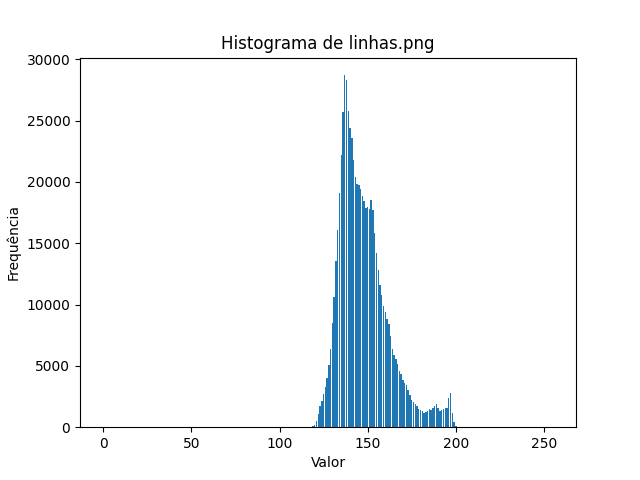
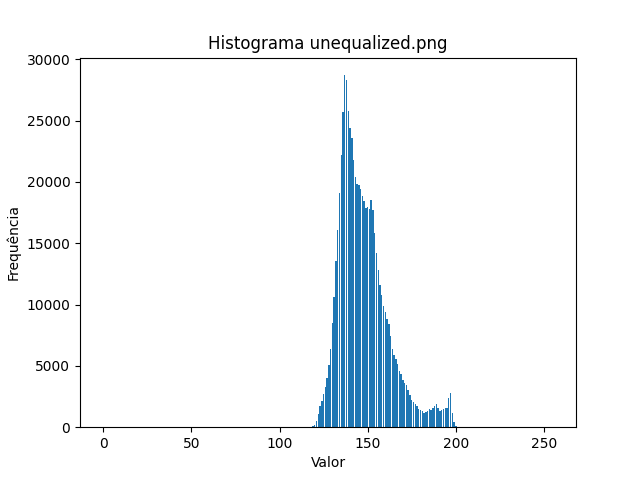
Fim do trabalho

Changed region(s): [[0.3125, 0.0625, 0.7188, 0.125]]

diff --git a/utils/medidas_objetos.py b/utils/medidas_objetos.py
@@ -1,36 +1,75 @@
 import numpy as np
 import cv2
 import matplotlib.pyplot as plt
+from utils import filtros
 
 def calcular_area(rotulada, rotulo):
     return np.sum(rotulada == rotulo)
 
+def encontrar_contornos(imagem_bordas):
+    altura, largura = imagem_bordas.shape
+    visitado = np.zeros_like(imagem_bordas, dtype=bool)
+    contornos = []
+
+    for i in range(altura):
+        for j in range(largura):
+            if imagem_bordas[i, j] == 255 and not visitado[i, j]:
+                pilha = [(i, j)]
+                contorno = []
+
+                while pilha:
+                    y, x = pilha.pop()
+                    if 0 <= y < altura and 0 <= x < largura:
+                        if imagem_bordas[y, x] == 255 and not visitado[y, x]:
+                            visitado[y, x] = True
+                            contorno.append((x, y))
+
+                            for dy in [-1, 0, 1]:
+                                for dx in [-1, 0, 1]:
+                                    if dx != 0 or dy != 0:
+                                        pilha.append((y + dy, x + dx))
+
+                if len(contorno) > 0:
+                    contornos.append(contorno)
+
+    return contornos
+
 def calcular_perimetro(rotulada, rotulo):
     objeto = np.uint8(rotulada == rotulo) * 255
-    contornos, _ = cv2.findContours(objeto, cv2.RETR_EXTERNAL, cv2.CHAIN_APPROX_SIMPLE)
+    contornos = cv2.findContours(objeto, cv2.RETR_EXTERNAL, cv2.CHAIN_APPROX_SIMPLE)
     if contornos:
-        return cv2.arcLength(contornos[0], True)
+        contorno = contornos[0]
+        perimetro = 0
+        for i in range(len(contorno) - 1):
+            x1, y1 = contorno[i]
+            x2, y2 = contorno[i + 1]
+            perimetro += np.sqrt((x2 - x1)**2 + (y2 - y1)**2)
+        return perimetro
     return 0
 
 def calcular_diametro(rotulada, rotulo):
     objeto = np.uint8(rotulada == rotulo) * 255
-    contornos, _ = cv2.findContours(objeto, cv2.RETR_EXTERNAL, cv2.CHAIN_APPROX_SIMPLE)
+    contornos = cv2.findContours(objeto, cv2.RETR_EXTERNAL, cv2.CHAIN_APPROX_SIMPLE)
     if contornos:
-        pontos = contornos[0][:, 0, :]
+        pontos = contornos[0]
         max_dist = 0
         for i in range(len(pontos)):
             for j in range(i + 1, len(pontos)):
-                dist = np.linalg.norm(pontos[i] - pontos[j])
+                dist = np.linalg.norm(np.array(pontos[i]) - np.array(pontos[j]))
                 if dist > max_dist:
                     max_dist = dist
         return max_dist
     return 0
+
 
 def medidas_por_objeto(rotulada):
     rotulos = np.unique(rotulada)
     rotulos = rotulos[rotulos != 0]
     medidas = []
     for r in rotulos:
+        #objeto = np.uint8(rotulada == r) * 255
+        #bordas = filtros.canny(objeto)
+        #contornos = encontrar_contornos(bordas)
         area = calcular_area(rotulada, r)
         perimetro = calcular_perimetro(rotulada, r)
         diametro = calcular_diametro(rotulada, r)

diff --git a/utils/filtros.py b/utils/filtros.py
@@ -26,25 +26,39 @@ def mediana(imagem, tamanho=3):
     return resultado.astype(np.uint8)
 
 def canny(imagem, limiar=100):
-    # Passo 1: filtro Gaussiano simples (suavização leve)
-    suavizada = media(imagem, tamanho=3)
+    # Passo 1: Suavização com filtro da média
+    suavizada = media(imagem)
+    suavizada = suavizada.astype(np.int32)
 
-    # Passo 2: gradientes com Sobel
-    sobelx = np.array([[-1, 0, 1],
-                       [-2, 0, 2],
-                       [-1, 0, 1]])
+    # Passo 2: Cálculo de gradientes com Sobel (manualmente)
+    altura, largura = suavizada.shape
+    grad_x = np.zeros_like(suavizada, dtype=np.float32)
+    grad_y = np.zeros_like(suavizada, dtype=np.float32)
 
-    sobely = np.array([[-1, -2, -1],
-                       [ 0,  0,  0],
-                       [ 1,  2,  1]])
+    sobel_x = [[-1, 0, 1],
+               [-2, 0, 2],
+               [-1, 0, 1]]
 
-    grad_x = cv2.filter2D(suavizada, -1, sobelx)
-    grad_y = cv2.filter2D(suavizada, -1, sobely)
+    sobel_y = [[-1, -2, -1],
+               [ 0,  0,  0],
+               [ 1,  2,  1]]
 
-    # Magnitude do gradiente
-    magnitude = np.sqrt(grad_x.astype(np.float32)**2 + grad_y.astype(np.float32)**2)
-    magnitude = np.clip(magnitude, 0, 255).astype(np.uint8)
+    for i in range(1, altura - 1):
+        for j in range(1, largura - 1):
+            gx = 0
+            gy = 0
+            for m in range(-1, 2):
+                for n in range(-1, 2):
+                    valor = suavizada[i + m, j + n]
+                    gx += valor * sobel_x[m + 1][n + 1]
+                    gy += valor * sobel_y[m + 1][n + 1]
+            grad_x[i, j] = gx
+            grad_y[i, j] = gy
 
-    # Limiarização simples para realçar bordas fortes
-    _, binarizada = cv2.threshold(magnitude, limiar, 255, cv2.THRESH_BINARY)
-    return binarizada
+    # Passo 3: Magnitude do gradiente
+    magnitude = np.sqrt(grad_x**2 + grad_y**2)
+
+    # Passo 4: Limiarização (binarização)
+    bordas = np.where(magnitude >= limiar, 255, 0).astype(np.uint8)
+
+    return bordas

diff --git a/utils/segmentacao.py b/utils/segmentacao.py
@@ -4,29 +4,29 @@ def otsu_binarizacao(imagem):
     hist, _ = np.histogram(imagem.flatten(), bins=256, range=(0, 256))
     total = imagem.size
 
-    soma_total = np.dot(np.arange(256), hist)
-    soma_b = 0
-    peso_b = 0
+    soma_total_intensidades = np.dot(np.arange(256), hist)
+    soma_fundo = 0
+    peso_objeto = 0
     max_var = 0
     limiar_otimo = 0
 
     for t in range(256):
-        peso_b += hist[t]
-        if peso_b == 0:
+        peso_objeto += hist[t]
+        if peso_objeto == 0:
             continue
 
-        peso_f = total - peso_b
+        peso_f = total - peso_objeto
         if peso_f == 0:
             break
 
-        soma_b += t * hist[t]
-        media_b = soma_b / peso_b
-        media_f = (soma_total - soma_b) / peso_f
+        soma_fundo += t * hist[t]
+        media_fundo = soma_fundo / peso_objeto
+        media_objeto = (soma_total_intensidades - soma_fundo) / peso_f
 
-        var_entre = peso_b * peso_f * (media_b - media_f) ** 2
+        variancia_entre_classes = peso_objeto * peso_f * (media_fundo - media_objeto) ** 2
 
-        if var_entre > max_var:
-            max_var = var_entre
+        if variancia_entre_classes > max_var:
+            max_var = variancia_entre_classes
             limiar_otimo = t
 
     binaria = np.where(imagem > limiar_otimo, 255, 0).astype(np.uint8)
@@ -40,7 +40,6 @@ def crescimento_regiao(imagem_binaria):
     for i in range(altura):
         for j in range(largura):
             if imagem_binaria[i, j] == 255 and rotulada[i, j] == 0:
-                # Inicia crescimento de região
                 fila = [(i, j)]
                 rotulada[i, j] = rotulo
 

diff --git a/main.py b/main.py
@@ -9,7 +9,7 @@ def menu():
     img4 = cv2.imread('ruidos.png')
     img5 = cv2.imread('unequalized.jpg')
 
-    if img1 is None or img2 is None:
+    if img1 is None or img2 is None or img3 is None or img4 is None or img5 is None:
         print("Erro ao carregar imagens")
         return
 
@@ -109,7 +109,7 @@ def menu():
             histograma = medidas_objetos.histograma(cinza)
             print("\n--- Medidas dos Objetos ---")
 
-            medidas_objetos.plot_histogram(histograma, "Histograma de linhas.png", "histograma_unequalized")
+            medidas_objetos.plot_histogram(histograma, "Histograma unequalized.png", "histograma_unequalized")
 
             for m in medidas:
                 print(f"Objeto {m['rotulo']}: Área={m['area']}, Perímetro={m['perimetro']:.2f}, Diâmetro={m['diametro']:.2f}")

diff --git a/utils/rastreamento_video.py b/utils/rastreamento_video.py
@@ -1,5 +1,5 @@
 import cv2
-
+from utils import filtros
 def rastrear_video():
     cap = cv2.VideoCapture(0)
     if not cap.isOpened():
@@ -50,11 +50,11 @@ def rastrear_video():
 
         elif modo_filtro == 4:
             cinza = cv2.cvtColor(output, cv2.COLOR_BGR2GRAY)
-            edges = cv2.canny(cinza)
+            edges = cv2.Canny(cinza, 100, 200)
             output = cv2.cvtColor(edges, cv2.COLOR_GRAY2BGR)
 
         elif modo_filtro == 5:
-            output = cv2.media(output)
+            output = filtros.media(output)
 
         elif modo_filtro == 6:
             if erosao == 1:
